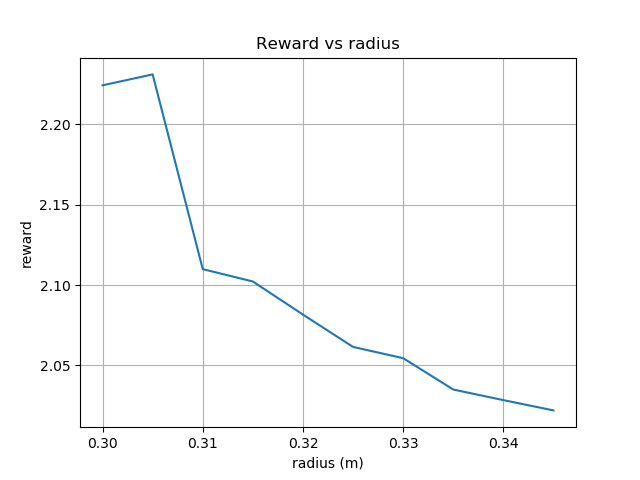
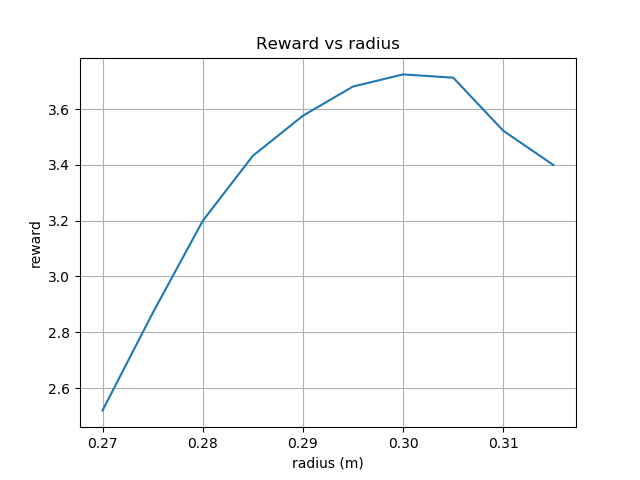
Trayectoria parametrica como funcion.

diff --git a/param_function.py b/param_function.py
@@ -1,0 +1,151 @@
+from os.path import dirname, join, abspath
+import numpy as np
+from pyrep import PyRep
+from pyrep.robots.arms.panda import Panda
+from pyrep.objects.dummy import Dummy
+from pyrep.objects.shape import Shape
+from pyrep.errors import ConfigurationPathError
+import math
+from pyrep.robots.end_effectors.panda_gripper import PandaGripper
+import matplotlib.pyplot as plt
+
+DIR_PATH = dirname(abspath(__file__))
+TTT_FILE = 'scene_with_panda_2.ttt'
+
+
+class Robot(object):  # Estructura del robot
+    def __init__(self, my_robot_arm, my_robot_gripper):
+        self.arm = my_robot_arm
+        self.gripper = my_robot_gripper
+        self.pos = self.arm.get_position()
+
+
+class Target(object):  # Estructura del objetivo
+    def __init__(self):
+        self.dummy = Dummy('target0')
+        self.initial_pos = self.dummy.get_position()
+        self.pos = []
+
+
+class Obstacle(object):  # Estructura del obstaculo
+    def __init__(self):
+        self.obstacle = Shape('obstacle')
+        self.pos = self.obstacle.get_position()  # Posicion del obstaculo
+        self.radius = 0.3  # Radio del obstaculo
+
+
+class Parameters(object):
+    def __init__(self):
+        self.linear_delta = 0.05  # 5 centimetros
+        # Parametros de evitacion: radio y numero de pasos para hacer la trayectoria
+        self.radius = 0.3
+        self.steps = 10
+        self.circular_delta = math.pi / (self.steps - 1)  # 180 / (steps-1) grados para hacer semicircunferencia
+        self.time = 0
+
+
+class ParamFunction(object):
+    def __init__(self):
+        self.pyrep = PyRep()
+        self.pyrep.launch(join(DIR_PATH, TTT_FILE), headless=True)
+        self.robot = Robot(Panda(), PandaGripper())
+        self.obstacle = Obstacle()
+        self.target = Target()
+        self.param = Parameters()
+
+    def avoidance_task(self, radius_interval: list):
+        radius_step = 0.005
+        list_of_radius = []
+        list_of_rewards = []
+        self.param.radius = radius_interval[0]
+
+        while self.param.radius <= radius_interval[1]:
+            self.pyrep.start()  # We start the simulation
+
+            self.target.pos = self.target.initial_pos  # We set the pos as the initial pos
+
+            # We try to get a path to the initial target of the path
+            try:
+                path = self.robot.arm.get_path(position=self.target.pos,
+                                               euler=[0, math.radians(180), 0])
+
+                # We execute the path
+                done = False
+                while not done:
+                    done = path.step()
+                    self.pyrep.step()
+                print('Reached initial target.')
+            except ConfigurationPathError:
+                print('Could not find path.')
+                exit()
+
+            distance_3d = np.array(self.obstacle.pos - self.target.pos)
+            distance = np.linalg.norm(distance_3d)
+
+            # Mienstras la distancia al objecto sea menor que el radio del obstaculo, hacemos trayctoria lineal
+            while (distance - self.param.linear_delta) > self.param.radius:
+                # Calcular la siguiente posición
+                next_pos = self.target.pos + np.array([0, self.param.linear_delta, 0])
+                self.target.pos = next_pos
+
+                try:
+                    path = self.robot.arm.get_path(position=self.target.pos,
+                                                   euler=[0, math.radians(180), 0],
+                                                   ignore_collisions=True)
+                except ConfigurationPathError:
+                    print('Could not find path')
+                    continue
+
+                # Step the simulation and advance the agent along the path
+                done = False
+                while not done:
+                    done = path.step()
+                    self.pyrep.step()
+
+                    distance_3d = np.array(self.obstacle.pos - self.target.pos)
+                    distance = np.linalg.norm(distance_3d)
+
+            self.param.time = 0  # Inicializamos el tiempo
+            # Hacemos trayectoria circular
+            for step in range(self.param.steps):
+                # Calculate the next target
+                next_pos = self.obstacle.pos + np.array([0,
+                                                         -self.param.radius*math.cos(step*self.param.circular_delta),
+                                                         self.param.radius*math.sin(step*self.param.circular_delta)])
+                self.target.pos = next_pos
+
+                try:
+                    path = self.robot.arm.get_path(position=self.target.pos,
+                                                   euler=[0, math.radians(180), 0],
+                                                   ignore_collisions=True)
+                except ConfigurationPathError:
+                    print('Could not find path')
+                    continue
+
+                # Step the simulation and advance the agent along the path
+                done = False
+                while not done:
+                    done = path.step()
+                    self.pyrep.step()
+                    self.param.time += self.pyrep.get_simulation_timestep()
+
+            reward = (-(10*(1-self.obstacle.radius/self.param.radius))**2+2) + 10 / self.param.time
+
+            list_of_radius = np.append(list_of_radius, self.param.radius)
+            list_of_rewards = np.append(list_of_rewards, reward)
+            print(list_of_radius)
+
+            self.param.radius += radius_step
+            self.pyrep.stop()  # Stop the simulation
+
+        figure, ax = plt.subplots()
+        ax.plot(list_of_radius, list_of_rewards)
+        ax.set(xlabel='radius (m)', ylabel='reward', title='Reward vs radius')
+        ax.grid()
+        figure.savefig("plot1.png")
+        plt.show()
+        print('Done ...')
+
+    def shutdown(self):
+        input('Press enter to finish ...')
+        self.pyrep.shutdown()  # Close the application

diff --git a/prueba_funcion.py b/prueba_funcion.py
@@ -1,0 +1,8 @@
+import param_function as pf
+
+function = pf.ParamFunction()  # Inicializacion
+
+radius = [0.27, 0.32]
+function.avoidance_task(radius_interval=radius)  # Ejecucion
+
+function.shutdown()  # Apagado
